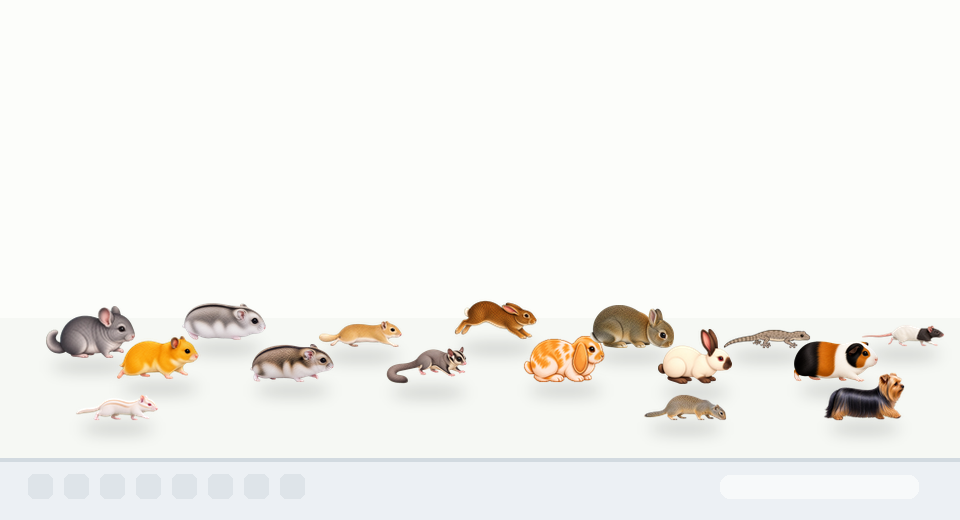
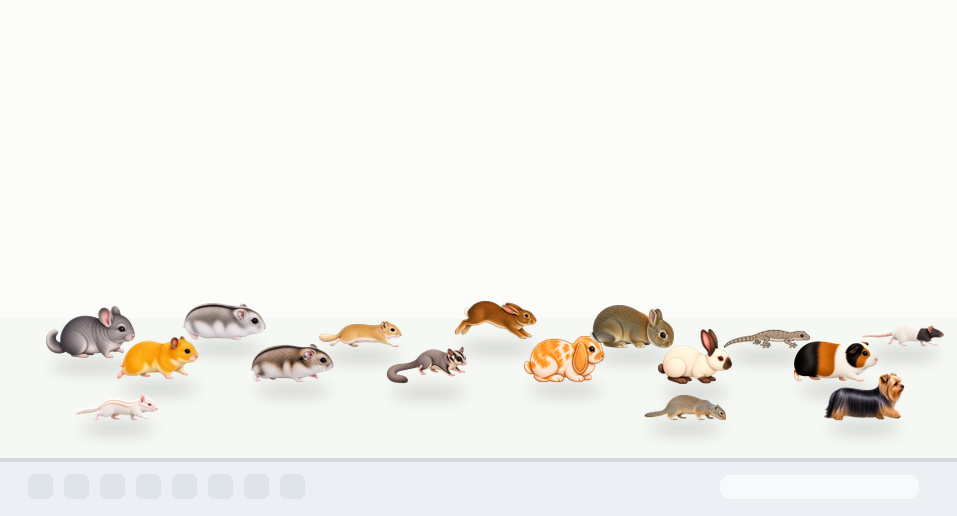
Use exact v0.1.5 hero preview image

Changed region(s): [[0.2424, 0.5581, 1.0, 0.8372], [0.0303, 0.5581, 0.2727, 0.8062], [0.0, 0.8682, 1.0, 0.8992]]

diff --git a/scripts/build_page_assets.py b/scripts/build_page_assets.py
@@ -17,8 +17,8 @@ ROOT = Path(__file__).resolve().parents[1]
 FRAME_W = 96
 FRAME_H = 64
 ICON_SIZE = 192
-PREVIEW_W = 960
-PREVIEW_H = 520
+PREVIEW_W = 957
+PREVIEW_H = 516
 
 CURRENT_VARIANTS = [
     "chinchilla_standard_gray",